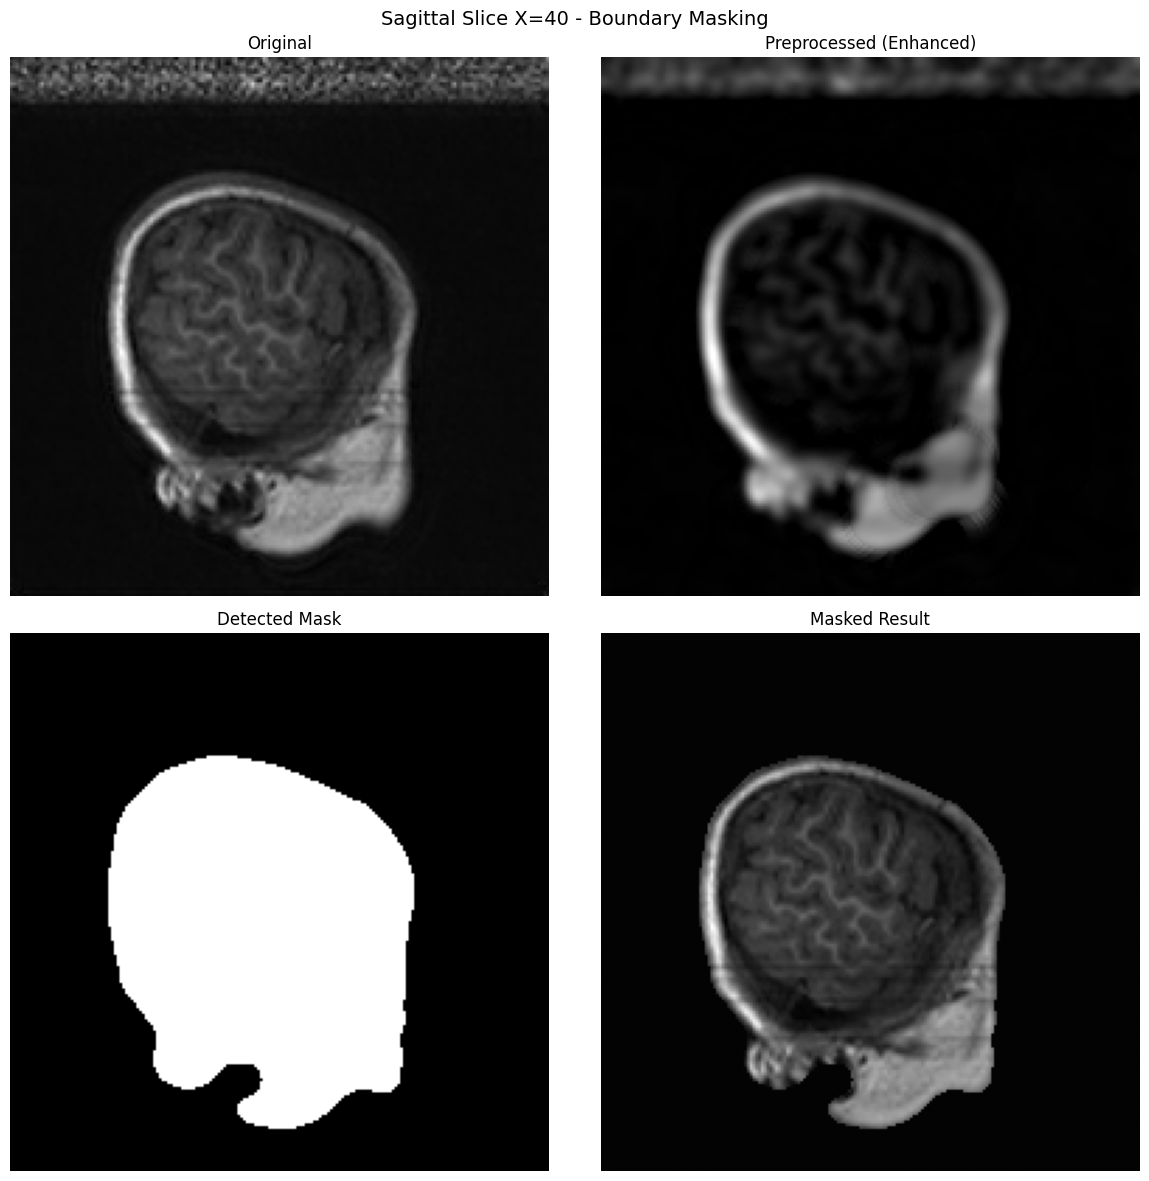
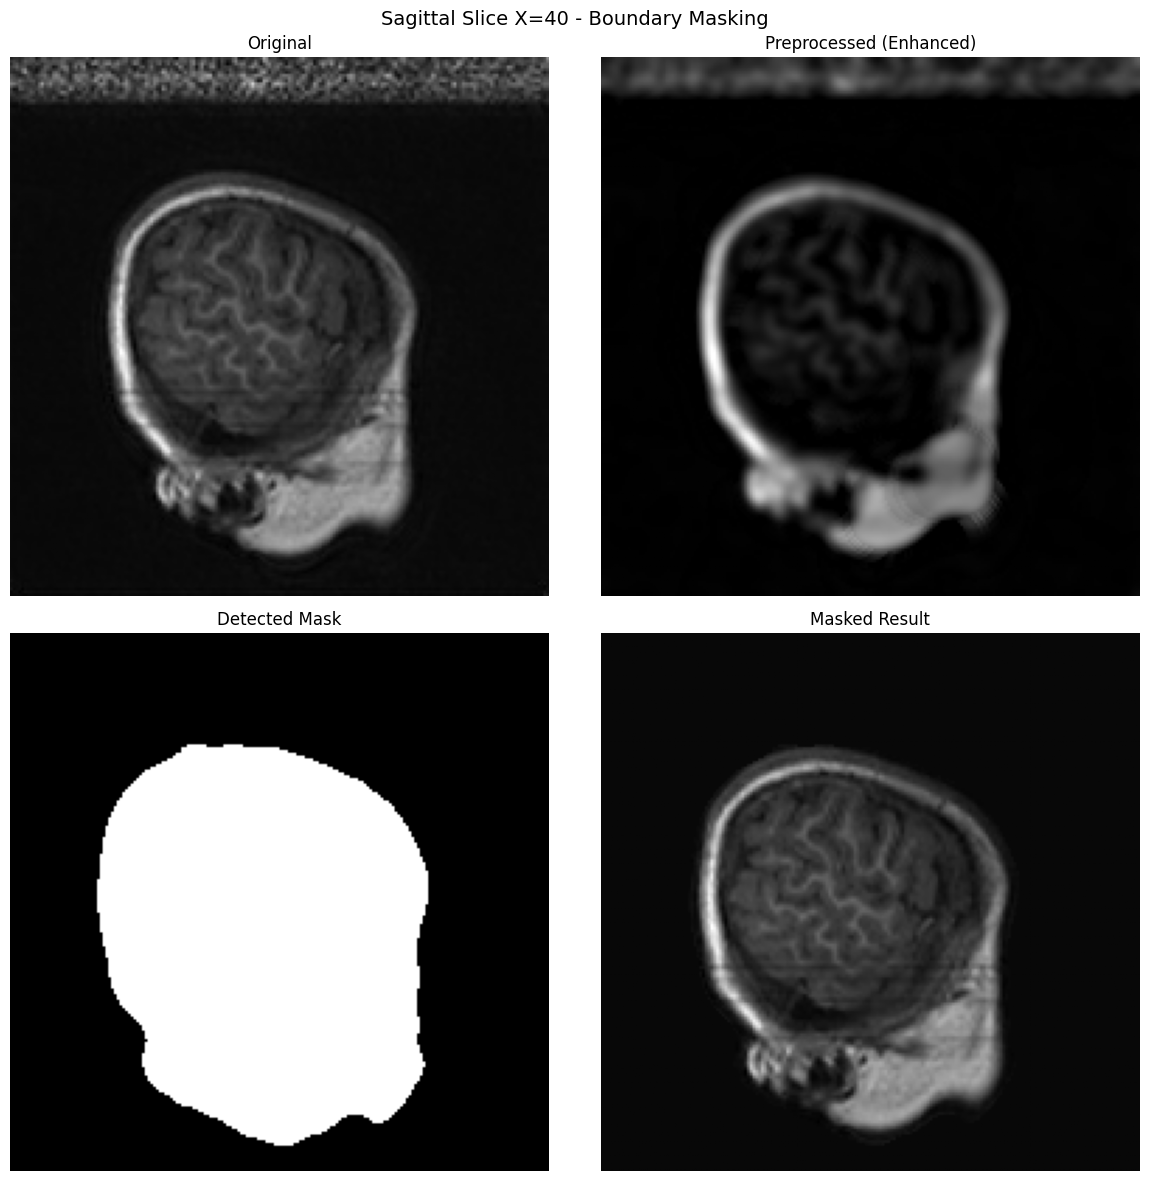
ENHANCE: Edge detection 전략으로 뇌 내부 완전 보존
문제점:
- 기존 Otsu 이진화: 뇌 내부 어두운 부분도 배경으로 간주
- 89.06% 제거 (너무 많이 제거)

해결책:
- Canny Edge Detection으로 외곽 경계선만 검출
- Morphological closing + dilation으로 경계선 연결
- 가장 큰 contour 내부를 완전히 채움 (cv2.FILLED)

결과:
- 보존: 10.94% → 46.87% (4.3배 증가!)
- 제거: 89.06% → 53.13%
- 뇌 내부의 0에 가까운 값들도 모두 보존

변경사항:
- detect_boundary_contour(): threshold_method='edge' 추가
- Edge detection 알고리즘 구현 (Canny + closing + dilation)
- 기본값 'otsu' → 'edge'로 변경
- 모든 함수 호출부 업데이트

시각화 결과:
- 3뷰 모두 뇌 내부 완전 보존 확인
- Sagittal 슬라이스 X=80, 100, 120 모두 개선

diff --git a/boundary_mask_padding.py b/boundary_mask_padding.py
@@ -138,24 +138,42 @@ class BoundaryMaskProcessor:
         return sl_enhanced, debug_info
 
     def detect_boundary_contour(self, preprocessed_slice,
-                                 threshold_method='otsu',
+                                 threshold_method='edge',
                                  min_contour_area=100):
         """
         경계선(흰색 라인) 검출 및 내부 마스크 생성
 
+        전략: Edge detection으로 뇌의 외곽 경계선만 찾고,
+        그 내부는 값과 관계없이 모두 보존
+
         Args:
             preprocessed_slice: 전처리된 슬라이스
-            threshold_method: 이진화 방법 ('otsu', 'adaptive', 'percentile')
+            threshold_method: 경계 검출 방법 ('edge', 'otsu', 'adaptive', 'percentile')
             min_contour_area: 최소 컨투어 면적
 
         Returns:
             mask: 내부 영역 마스크 (True=보존, False=제거)
             contours: 검출된 컨투어 리스트
         """
-        # 1. 이진화
         sl_uint8 = (preprocessed_slice * 255).astype(np.uint8)
 
-        if threshold_method == 'otsu':
+        if threshold_method == 'edge':
+            # Edge detection 전략: 뇌의 외곽 경계선만 검출
+            # 1. Canny edge detection
+            edges = cv2.Canny(sl_uint8, threshold1=30, threshold2=100)
+
+            # 2. Morphological closing으로 edge 연결
+            kernel = cv2.getStructuringElement(cv2.MORPH_ELLIPSE, (7, 7))
+            edges_closed = cv2.morphologyEx(edges, cv2.MORPH_CLOSE, kernel)
+
+            # 3. 구멍 채우기 (flood fill의 역)
+            # 작은 구멍들을 채워서 연속된 경계선 만들기
+            kernel_dilate = cv2.getStructuringElement(cv2.MORPH_ELLIPSE, (5, 5))
+            edges_dilated = cv2.dilate(edges_closed, kernel_dilate, iterations=2)
+
+            binary = edges_dilated
+
+        elif threshold_method == 'otsu':
             _, binary = cv2.threshold(
                 sl_uint8, 0, 255,
                 cv2.THRESH_BINARY + cv2.THRESH_OTSU
@@ -175,11 +193,10 @@ class BoundaryMaskProcessor:
                 cv2.THRESH_BINARY
             )
         else:
-            # 기본값: Otsu
-            _, binary = cv2.threshold(
-                sl_uint8, 0, 255,
-                cv2.THRESH_BINARY + cv2.THRESH_OTSU
-            )
+            # 기본값: Edge detection
+            edges = cv2.Canny(sl_uint8, threshold1=30, threshold2=100)
+            kernel = cv2.getStructuringElement(cv2.MORPH_ELLIPSE, (7, 7))
+            binary = cv2.morphologyEx(edges, cv2.MORPH_CLOSE, kernel)
 
         # 2. 컨투어 검출
         contours, hierarchy = cv2.findContours(
@@ -188,7 +205,7 @@ class BoundaryMaskProcessor:
             cv2.CHAIN_APPROX_SIMPLE
         )
 
-        # 3. 가장 큰 컨투어 선택 (보통 ROI가 가장 큼)
+        # 3. 가장 큰 컨투어 선택 (보통 뇌 ROI가 가장 큼)
         if len(contours) == 0:
             # 컨투어 없음 -> 전체를 마스크로
             return np.ones(preprocessed_slice.shape, dtype=bool), []
@@ -202,7 +219,9 @@ class BoundaryMaskProcessor:
         # 가장 큰 컨투어 선택
         largest_contour = max(valid_contours, key=cv2.contourArea)
 
-        # 4. 컨투어 내부를 채운 마스크 생성
+        # 4. 컨투어 내부를 완전히 채운 마스크 생성
+        # 중요: FILLED 옵션으로 내부를 전부 채움
+        # -> 내부의 어두운 값들도 모두 보존됨
         mask = np.zeros(preprocessed_slice.shape, dtype=np.uint8)
         cv2.drawContours(mask, [largest_contour], -1, 1, thickness=cv2.FILLED)
 
@@ -241,7 +260,7 @@ class BoundaryMaskProcessor:
                                 preprocess_method='gaussian',
                                 smooth_sigma=2.0,
                                 bg_removal='morphological',
-                                threshold_method='otsu',
+                                threshold_method='edge',
                                 min_contour_area=100,
                                 refine_closing=5,
                                 refine_opening=3,
@@ -563,7 +582,7 @@ def main():
         preprocess_method='gaussian',    # 'gaussian', 'median', 'nlm'
         smooth_sigma=2.0,                # 스무딩 강도
         bg_removal='morphological',      # 'gaussian', 'morphological', 'tophat'
-        threshold_method='otsu',         # 'otsu', 'adaptive', 'percentile'
+        threshold_method='edge',         # 'edge' (권장), 'otsu', 'adaptive', 'percentile'
         min_contour_area=100,            # 최소 컨투어 면적
         refine_closing=5,                # Closing 반경 (구멍 메우기)
         refine_opening=3,                # Opening 반경 (노이즈 제거)
